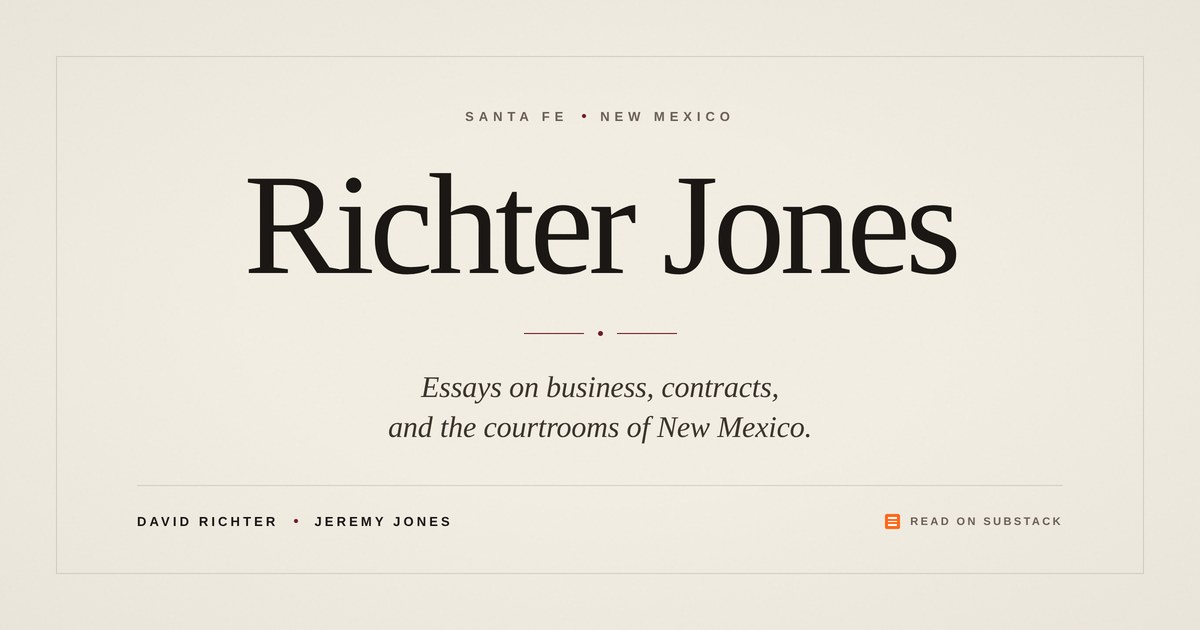
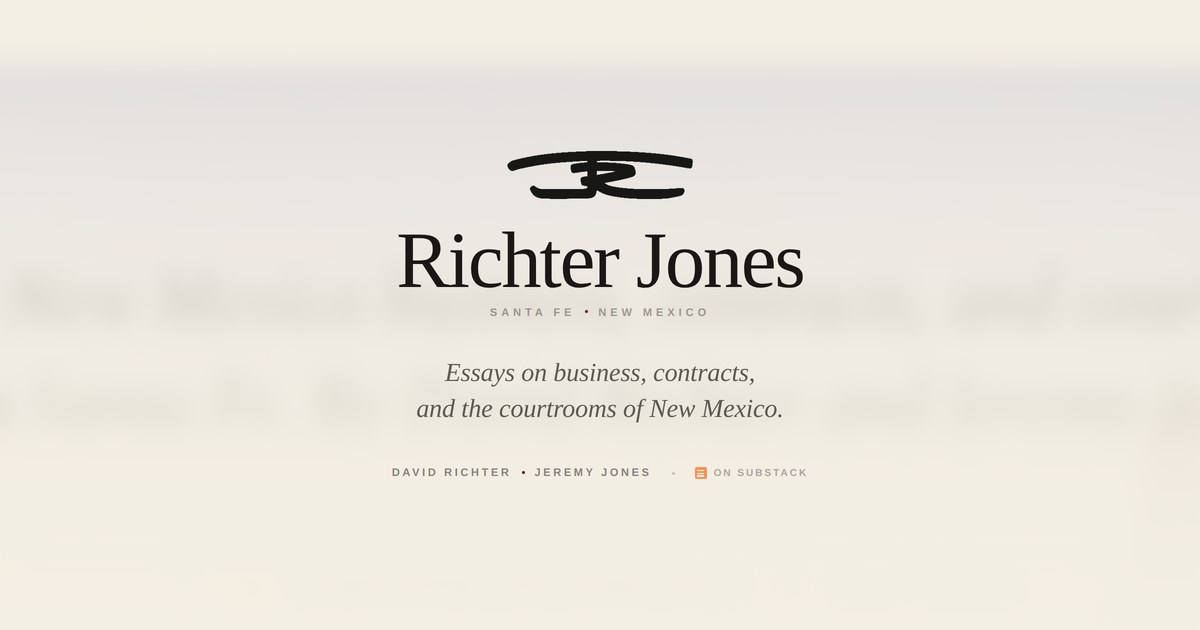
Writers section v2: centered cards with photos on top, new OG image
- Writers: photos centered above text, flex column layout
- Names on single line, text centered with max-width
- New OG image with RJ monogram

diff --git a/public/index.html b/public/index.html
@@ -826,14 +826,14 @@ footer {
   transition: opacity 0.22s ease, transform 0.22s ease;
 }
 
-/* ============ WRITERS — minimal colophon ============ */
+/* ============ WRITERS — centered cards ============ */
 .writers-block {
   padding: 90px 0 100px;
   border-top: 1px solid var(--rule);
 }
 .writers-head {
   padding-bottom: 20px;
-  margin-bottom: 48px;
+  margin-bottom: 72px;
   border-bottom: 1px solid var(--rule);
 }
 .writers-head h2 {
@@ -846,39 +846,38 @@ footer {
 }
 .writers-grid {
   display: grid;
-  grid-template-columns: 1fr 1px 1fr;
-  gap: 120px;
+  grid-template-columns: 1fr 1fr;
+  gap: 80px;
+  align-items: stretch;
 }
 .writer {
-  display: grid;
-  grid-template-columns: 180px 240px;
-  gap: 28px;
-  align-items: start;
+  display: flex;
+  flex-direction: column;
+  align-items: center;
+  text-align: center;
 }
 .writer-photo {
-  width: 180px;
-  aspect-ratio: auto;
-  display: block;
+  width: 220px;
+  aspect-ratio: 4 / 5;
+  object-fit: cover;
   border-top: 3px solid var(--oxblood);
+  display: block;
+  margin-bottom: 36px;
 }
 .writer-photo img {
   width: 100%;
-  height: auto;
+  height: 100%;
+  object-fit: cover;
   display: block;
-}
-.writers-grid .divider {
-  width: 1px;
-  background: var(--rule);
-  align-self: stretch;
 }
 .writer h3 {
   font-family: 'Spectral', serif;
   font-weight: 400;
   font-size: 38px;
-  line-height: 1.05;
+  line-height: 1;
   letter-spacing: -0.02em;
   color: var(--ink);
-  margin-bottom: 10px;
+  margin-bottom: 14px;
 }
 .writer-role {
   font-family: 'Inter Tight', sans-serif;
@@ -887,19 +886,21 @@ footer {
   letter-spacing: 0.22em;
   text-transform: uppercase;
   color: var(--oxblood);
-  margin-bottom: 22px;
+  margin-bottom: 26px;
 }
 .writer-bio {
   font-family: 'Spectral', serif;
   font-weight: 300;
   font-size: 17px;
-  line-height: 1.55;
+  line-height: 1.6;
   color: var(--ink-soft);
-  margin-bottom: 28px;
+  max-width: 320px;
+  margin-bottom: 32px;
 }
 .writer-archive {
+  margin-top: auto;
   font-family: 'Inter Tight', sans-serif;
-  font-size: 12px;
+  font-size: 11px;
   font-weight: 600;
   letter-spacing: 0.16em;
   text-transform: uppercase;
@@ -934,26 +935,11 @@ footer {
 
   /* Writers: stack vertically */
   .writers-block { padding: 60px 0 70px; }
-  .writers-head { margin-bottom: 36px; }
-  .writers-grid { grid-template-columns: 1fr; gap: 0; }
-  .writers-grid .divider { display: none; }
-  .writer {
-    grid-template-columns: 1fr;
-    gap: 0;
-    padding: 40px 0;
-    text-align: center;
-  }
-  .writer:first-of-type { border-bottom: 1px solid var(--rule); }
-  .writer-photo {
-    width: 140px;
-    margin: 0 auto 24px;
-  }
-  .writer h3 { font-size: 28px; }
-  .writer-bio {
-    max-width: 400px;
-    margin: 0 auto 20px;
-    font-size: 15px;
-  }
+  .writers-head { margin-bottom: 48px; }
+  .writers-grid { grid-template-columns: 1fr; gap: 48px; }
+  .writer-photo { width: 180px; }
+  .writer h3 { font-size: 32px; }
+  .writer-bio { font-size: 16px; }
 }
 
 /* Mobile */
@@ -1000,13 +986,13 @@ footer {
 
   /* Writers */
   .writers-block { padding: 48px 0 56px; }
-  .writers-head { margin-bottom: 28px; padding-bottom: 12px; }
+  .writers-head { margin-bottom: 36px; padding-bottom: 12px; }
   .writers-head h2 { font-size: 12px; }
-  .writer { padding: 32px 0; }
-  .writer-photo { width: 120px; margin-bottom: 20px; }
-  .writer h3 { font-size: 24px; margin-bottom: 6px; }
-  .writer-role { font-size: 9px; margin-bottom: 16px; }
-  .writer-bio { font-size: 14px; margin-bottom: 16px; }
+  .writers-grid { gap: 40px; }
+  .writer-photo { width: 160px; }
+  .writer h3 { font-size: 26px; margin-bottom: 10px; }
+  .writer-role { font-size: 9px; margin-bottom: 18px; }
+  .writer-bio { font-size: 14px; max-width: 280px; }
   .writer-archive { font-size: 10px; }
 
   /* Footer */
@@ -1216,24 +1202,19 @@ footer {
         <div class="writer-photo">
           <img src="david-duotone.png" alt="David Richter">
         </div>
-        <div class="writer-info">
-          <h3>David<br>Richter</h3>
-          <div class="writer-role">Partner · Litigation</div>
-          <p class="writer-bio">Commercial disputes, appellate advocacy, and the discipline of strategic restraint. Fifteen years representing clients in New Mexico state and federal courts.</p>
-          <a href="#latest" class="writer-archive">23 essays →</a>
-        </div>
+        <h3>David Richter</h3>
+        <div class="writer-role">Partner · Litigation</div>
+        <p class="writer-bio">Commercial disputes, appellate advocacy, and the discipline of strategic restraint. Fifteen years representing clients in New Mexico state and federal courts.</p>
+        <a href="#latest" class="writer-archive">23 essays →</a>
       </article>
-      <div class="divider"></div>
       <article class="writer">
         <div class="writer-photo">
           <img src="jeremy-duotone.png" alt="Jeremy Jones">
         </div>
-        <div class="writer-info">
-          <h3>Jeremy<br>Jones</h3>
-          <div class="writer-role">Partner · Transactional</div>
-          <p class="writer-bio">Transactional counsel for closely-held businesses. Entity formation, operating agreements, and the contractual architecture that precedes growth.</p>
-          <a href="#latest" class="writer-archive">18 essays →</a>
-        </div>
+        <h3>Jeremy Jones</h3>
+        <div class="writer-role">Partner · Transactional</div>
+        <p class="writer-bio">Transactional counsel for closely-held businesses. Entity formation, operating agreements, and the contractual architecture that precedes growth.</p>
+        <a href="#latest" class="writer-archive">18 essays →</a>
       </article>
     </div>
   </div>
